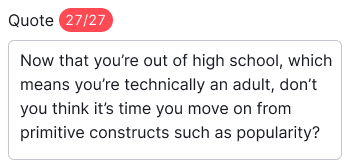
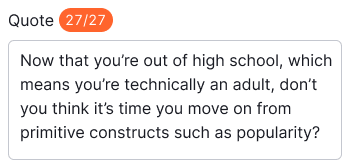
[docs] Small fixes to Counter guides and examples

Changed region(s): [[0.1714, 0.0298, 0.3429, 0.2083]]

diff --git a/website/docs/components/counter/examples/counter_in_dot.tsx b/website/docs/components/counter/examples/counter_in_dot.tsx
@@ -3,11 +3,12 @@ import Button from 'intergalactic/button';
 import NotificationM from 'intergalactic/icon/Notification/m';
 import Dot from 'intergalactic/dot';
 import { AnimatedNumber } from 'intergalactic/counter';
+import { Hint } from 'intergalactic/tooltip';
 
 const notificationsCount = 18;
 
 const Demo = () => (
-  <Button aria-label={`${notificationsCount} notifications`}>
+  <Hint tag={Button} title='Notifications' aria-label={`${notificationsCount} notifications`}>
     <Button.Addon>
       <NotificationM />
       <Dot up>
@@ -20,7 +21,7 @@ const Demo = () => (
         />
       </Dot>
     </Button.Addon>
-  </Button>
+  </Hint>
 );
 
 export default Demo;

diff --git a/website/docs/components/counter/counter.md b/website/docs/components/counter/counter.md
@@ -84,9 +84,9 @@ Table: Counter themes
 | Theme     | Appearance examples      | Styles    | Usage           |
 | --------- | ------------------------ | --------- | --------------- |
 | default        | ![](static/secondary.png) ![](static/textarea.png) | `background-color: var(--bg-primary-neutral)`, `border: 1px solid var(--border-primary)`, `color: var(--text-secondary)` | Use inside secondary controls and next to various types of inputs. |                                                                    |
-| `light-blue`     | ![](static/filter.png) | `background-color: var(--bg-primary-info)`, `color: var(--text-invert)`                                                   | Use in filters to focus on the selected values.                    |
-| `orange`         | ![](static/orange.png)     | `background-color: var(--bg-primary-warning)`, `color: var(--text-invert)`                                                | Use to display the reached limit.                                  |
-| `red`            | ![](static/red.png)           | `background-color: var(--bg-primary-critical)`, `color: var(--text-invert)`                                               | Use to display the over-limit.                                     |
+| `light-blue`     | ![](static/filter.png) | `background-color: var(--bg-primary-info)`, `color: var(--text-invert)`                                                   | Use in filters to indicate the number of selected values.                    |
+| `orange`         | ![](static/orange.png)     | `background-color: var(--bg-primary-warning)`, `color: var(--text-invert)`                                                | Use to display a reached or almost reached limit.                                  |
+| `red`            | ![](static/red.png)           | `background-color: var(--bg-primary-critical)`, `color: var(--text-invert)`                                               | Use to display an exceeded limit.                                     |
 | `white` (invert) | ![](static/invert.png)     | `background-color: var(--bg-primary-neutral)`, `color: var(--text-primary)`                                               | Use inside primary controls with a bright/dark background color.   |
 
 ## Text counters

diff --git a/website/docs/components/counter/counter-a11y.md b/website/docs/components/counter/counter-a11y.md
@@ -7,7 +7,7 @@ tabs: Design('counter'), A11y('counter-a11y'), API('counter-api'), Example('coun
 ## Considerations for designers and developers
 
 - Counter text should be clear and concise.
-- Make sure to [check the contrast of the counter text against the background](/core-principles/a11y/a11y-design#color_and_contrast).
+- If you're using `Counter` on a colored or dark background, make sure that [it has enough contrast against the background](/core-principles/a11y/a11y-design#color_and_contrast).
 - Include counters in the reading order so screen readers can access it.
 - Counters aren't interactive, so they don't have to be in the keyboard focus (tab) order.
 - You can use `ScreenReaderOnly` component for screen readers to announce counter value along with some accompanying text. [Refer to the example](./counter-code#counter-in-forms) for more details.

diff --git a/website/docs/components/counter/counter-code.md b/website/docs/components/counter/counter-code.md
@@ -31,7 +31,7 @@ Don't forget to place counters inside the `Addon` to create correct margins.
 ## Counter in forms
 
 ::: tip
-As design guide recommends, the counter changes color to orange and then red when the limit is reached and exceeded, respectively. This rule isn’t implemented in the example.
+As the [design guide recommends](./counter#usage-in-ux-ui), the counter changes color to orange when the limit is reached, and then to red when the limit is exceeded. This rule isn’t implemented in the example.
 :::
 
 ::: sandbox
